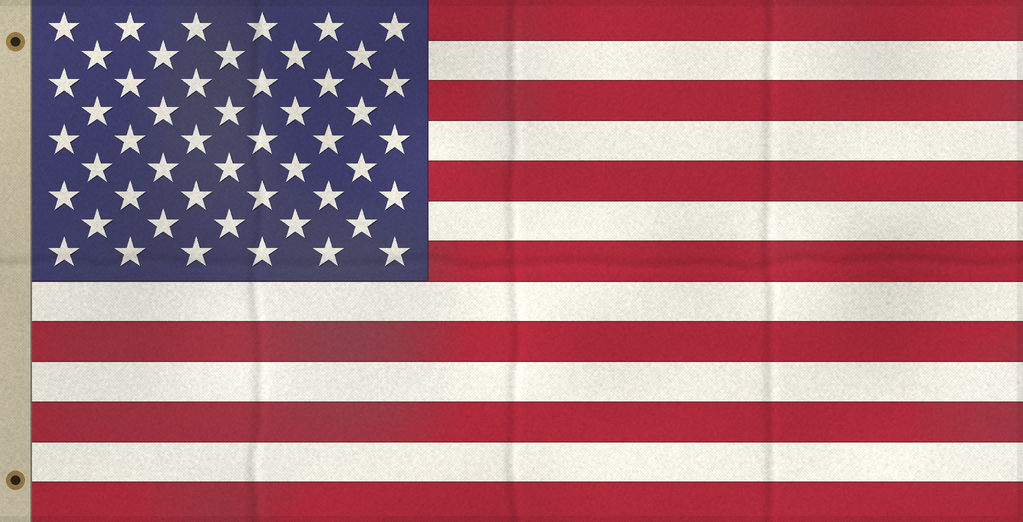
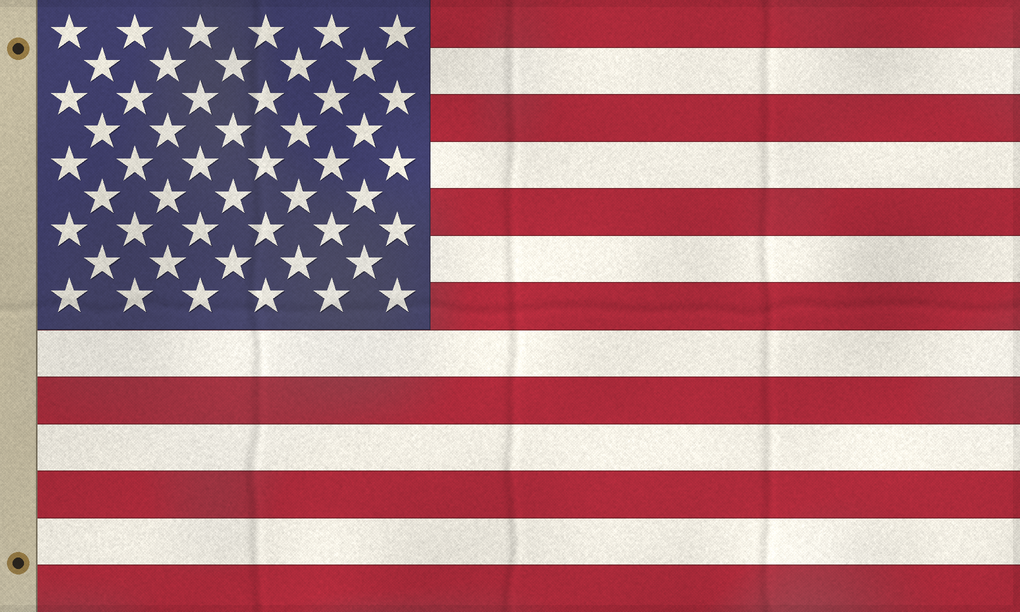
v67: lote 22 — bandeiras iguais, grama mais baixa e contagem de 10 s (D-136)
- Bandeiras dos EUA e da Frente no mesmo retângulo de 5:3 (mesa e fichas);
  imagens refeitas nessa proporção e reenviadas.
- Grama do terreno 1/3 mais baixa (GrassLength 1 -> 0,67).
- Contagem de 10 s (eram 30): veículo com gente dentro que passa de 60 m
  do QG volta para a borda, parado e de frente para o QG; quem é puxado
  vê "Não saia da base!". A contagem só aparece em campo (não tapa mais a
  mesa de escolha de lado).
- Fila nova registrada no PROGRESS (lotes 23 a 27).

diff --git a/vantuong65/tools/bandeiras_textura.py b/vantuong65/tools/bandeiras_textura.py
@@ -2,10 +2,10 @@
 quero a bandeira de cada país esticada sobre a mesa, bem detalhadas e texturizadas").
 
 Uso: `uv run --group arte python tools/bandeiras_textura.py`
-Saídas em `assets/bandeiras/`: `bandeira_eua.png` (1023 x 522: 1,9:1 mais a lona do mastro) e
-`bandeira_frente.png` (1024 x 683, 3:2), desenhadas a 2x e reduzidas (borda limpa). O Roblox
-reduz imagem a 1024 px de lado; por isso este tamanho. Também `testes/conferencia_bandeiras.png`,
-as duas lado a lado.
+Saídas em `assets/bandeiras/`: `bandeira_eua.png` e `bandeira_frente.png`, as duas com 1020 x 612
+(5:3, lote 22: o mesmo tamanho na mesa; a dos EUA com a lona do mastro dentro), desenhadas a 2x e
+reduzidas (borda limpa). O Roblox reduz imagem a 1024 px de lado; por isso este tamanho. Também
+`testes/conferencia_bandeiras.png`, as duas lado a lado.
 
 Geometria:
 - EUA (Executive Order 10834, 1959, a bandeira de 1965): altura 1, comprimento 1,9; 13 listras
@@ -37,6 +37,11 @@ RAIZ = Path(__file__).resolve().parents[1]
 SAIDA = RAIZ / "assets" / "bandeiras"
 CONF = RAIZ / "testes" / "conferencia_bandeiras.png"
 K = 2  # supersample
+# Lote 22 (dono: "deixa as bandeiras na escolha de lado do mesmo tamanho"): as duas no mesmo
+# retângulo de 5:3, a proporção comercial da bandeira dos EUA (3 x 5 pés). A dos EUA era 1,9:1
+# mais a lona; a da Frente, 3:2. Cada desenho é refeito na proporção nova (nada esticado).
+PROPORCAO = 5 / 3
+ALTURA = 612  # px na imagem final: 1.020 x 612 (o Roblox reduz acima de 1.024)
 rng = np.random.default_rng(1965818)
 
 US_RED = (178, 34, 52)
@@ -116,9 +121,9 @@ def costura(
 
 
 def bandeira_eua() -> Image.Image:
-    H = 522 * K  # com a lona, 1.023 px de largura (o Roblox reduz acima de 1.024)
-    W = int(round(H * 1.9))
-    lona = int(0.06 * H)  # tira de lona do mastro (fora da proporção da bandeira)
+    H = ALTURA * K
+    lona = int(0.06 * H)  # tira de lona do mastro, dentro dos 5:3
+    W = int(round(H * PROPORCAO)) - lona
     img = Image.new("RGB", (W + lona, H), US_WHITE)
     d = ImageDraw.Draw(img)
     x0 = lona
@@ -129,7 +134,8 @@ def bandeira_eua() -> Image.Image:
     # costura entre as listras
     for i in range(1, 13):
         costura(d, [(x0, i * faixa), (x0 + W, i * faixa)], (120, 30, 38), 1.2 * K)
-    ch, cw = 7 * faixa, 0.76 * H
+    # cantão: 0,76/1,9 = 2/5 do comprimento (a regra das bandeiras de 3 x 5 pés)
+    ch, cw = 7 * faixa, W * 0.76 / 1.9
     d.rectangle([x0, 0, x0 + cw, ch], fill=US_BLUE)
     costura(d, [(x0 + cw, 0), (x0 + cw, ch), (x0, ch)], (40, 38, 70), 1.2 * K)
     # 50 estrelas (bordadas: sombra fina embaixo à direita e o corpo claro)
@@ -158,8 +164,8 @@ def bandeira_eua() -> Image.Image:
 
 
 def bandeira_frente() -> Image.Image:
-    H = 683 * K
-    W = int(round(H * 1.5))
+    H = ALTURA * K
+    W = int(round(H * PROPORCAO))
     img = Image.new("RGB", (W, H), NLF_RED)
     d = ImageDraw.Draw(img)
     d.rectangle([0, H / 2, W, H], fill=NLF_BLUE)

diff --git a/vantuong65/PROGRESS.md b/vantuong65/PROGRESS.md
@@ -95,6 +95,21 @@ jogo: vale só a ideia (objetivos espalhados), nada da tela.
 - **Lote 21 (v66, D-135): feito.** Vegetação com até 6 mil triângulos por modelo (14 modelos
   reduzidos e reenviados; a D-66 pedia no mínimo 8 mil).
 - "jogo de poder roblox": engano (resposta do dono), nada a fazer.
+- Pedidos novos do dono (14/11, 15h57 a 16h41), em lotes:
+  - **Lote 22 (v67, D-136): feito.** Bandeiras do mesmo tamanho na escolha de lado; grama 1/3 mais
+    baixa; contagem de 10 s em que dá para pegar veículo, mas não sair da base.
+  - **Lote 23:** recompensa diária e passe mais atraentes para crianças, com letras maiores
+    (principalmente as das recompensas).
+  - **Lote 24:** símbolo de granada perto: vermelho = vai matar, branco = vai ferir.
+  - **Lote 25:** nome do jogo (STARLITE: Vietnã 1965, D-101) e imagens da página (capas em
+    `marketing/capas`). O dono vai dar o acesso.
+  - **Lote 26:** mapa novo pela imagem do dono:
+    - 5 objetivos: arrozais (SO), serraria (NO), vila (centro), ponte e cais (SE), engenho (NE);
+      rio; base dos EUA a oeste e do VC a leste;
+    - um objetivo fica na mata fechada;
+    - bases mais longe dos objetivos;
+    - mais relevo.
+  - **Lote 27:** correção de bugs de textura, gráficos, movimentação, tiros e granadas.
 
 - **Próximos (ideias da análise, esperando o dono):**
   - desempenho medido num celular e num servidor do Roblox (fps, Hz, teto de bots), aliviando a mata;
@@ -103,6 +118,29 @@ jogo: vale só a ideia (objetivos espalhados), nada da tela.
   - base do VC sob a mata; nomes do equipamento da Intendência sem tradução; Type 54 em 3ª pessoa;
   - a pá do autoteste na 1ª rodada de cada sessão;
   - as teclas agem por baixo da tela de carregamento (a pá cavou durante o carregamento, D-129).
+
+## v67: lote 22, bandeiras iguais, grama mais baixa e contagem de 10 s (2026-11-14, D-136)
+- **A publicar.**
+- **Feito:**
+  - bandeiras dos EUA e da Frente no mesmo retângulo de 5:3, na mesa e nas fichas; imagens
+    refeitas nessa proporção e reenviadas (as antigas como `Images.bandeira_*_v66`);
+  - grama do terreno 1/3 mais baixa (`GrassLength` 1 → 0,67, no bake);
+  - contagem do começo de 10 s (eram 30). O veículo com gente dentro que passa de 60 m do QG volta
+    para a borda, parado e de frente para o QG. Quem é puxado de volta vê "Não saia da base!" em
+    vermelho; o texto normal é "Pegue um veículo e espere na base";
+  - a contagem não aparece mais por cima da mesa de escolha de lado; só em campo.
+- **Conferido no Studio:**
+  - mesa com as duas bandeiras do mesmo tamanho e sem a contagem por cima;
+  - a pé, levado a 80 m: voltou para 58 m;
+  - no jipe, levado a 90 m: voltou para 54 m em 1,2 s, sentado, parado e de frente para o QG
+    (cosseno 0,98);
+  - o aviso em vermelho na tela;
+  - a contagem em campo de 9 a 1 e depois "VALENDO!";
+  - `GrassLength` 0,67 no place.
+- **Testes:** Lune todos ok (interface com o teste novo das bandeiras e o da contagem atualizado);
+  pytest; ruff; luau-lsp.
+- **Não testado:** um jogador de verdade dirigindo para fora da base (o teste moveu o jipe pelo
+  servidor); celular.
 
 ## v66: lote 21, vegetação com até 6 mil triângulos (2026-11-14, D-135)
 - **Publicada** (versão 66 do place, commit e9a3d6e).

diff --git a/vantuong65/DESIGN.md b/vantuong65/DESIGN.md
@@ -4949,3 +4949,50 @@ igual.
 direita.
 
 **Não testado:** celular e num servidor do Roblox.
+
+## D-136 — Lote 22: bandeiras iguais, grama mais baixa e contagem de 10 s (v67, 2026-11-14)
+
+Pedidos do dono:
+- "deixa as bandeiras na escolha de lado do mesmo tamanho";
+- "diminua 1/3 da altura da grama";
+- "faça de 10 seg a contagem regressiva onde os jogadores podem pegar os veículos etc, porém não
+  podem sair da base".
+
+**Bandeiras:**
+- Antes, a dos EUA era 1,96:1 (1,9:1 mais a lona do mastro) e a da Frente 3:2, e a dos EUA ficava
+  bem mais larga na mesa.
+- Agora as duas usam o mesmo retângulo de 5:3, a proporção comercial da bandeira dos EUA (3 x 5 pés),
+  com a lona do mastro dentro. Nada foi esticado:
+  - `tools/bandeiras_textura.py` desenha as duas já em 1.020 x 612 px;
+  - cantão em 2/5 do comprimento;
+  - a estrela da Frente com o mesmo raio.
+- `Bandeiras.RATIO` = 5:3 para as duas. A mesa (`LobbyScene.flagOnTable`) e as fichas de alistamento
+  usam a proporção comum.
+- Imagens reenviadas; as antigas ficaram como `Images.bandeira_*_v66`.
+
+**Grama:** `Terrain.GrassLength` de 1 para 0,67 no bake (`tools/bake_place.luau`, `GRASS_LENGTH`). Só
+o plugin ou o arquivo do place escreve essa propriedade.
+
+**Contagem** (`MatchService.PREP_S` 30 → 10; `PreparoService`):
+- Pegar veículo já era livre na contagem. O que faltava era prender o veículo: quem estava sentado
+  saía da base dirigindo.
+- Agora, a cada 0,5 s, o veículo com gente dentro que passou de 60 m do QG volta 6 m para dentro do
+  raio. Ele volta na mesma altura sobre o chão (o helicóptero no ar), de frente para o QG, parado e
+  com quem está sentado.
+- Quem é puxado de volta (a pé ou no veículo) ganha +1 no atributo `PrepVolta` do Player. A contagem
+  mostra "Não saia da base!" em vermelho por 2,5 s; o texto normal é "Pegue um veículo e espere na
+  base" (traduções em en, es e vi).
+- **Contagem fora da mesa:** a contagem aparecia por cima da mesa de escolha de lado e tapava as
+  bandeiras; ali o número ficava parado em 10, porque a partida espera cheia até alguém nascer. Agora
+  só aparece em campo: personagem vivo, papel escolhido e o `VT65LobbyBackdrop` desligado.
+
+**Conferido no Studio:**
+- a pé, levado a 80 m: voltou para 58 m;
+- no jipe M151, levado a 90 m: voltou para 54 m em 1,2 s, sentado, parado e de frente para o QG
+  (cosseno 0,98);
+- nascendo no QG ninguém é puxado (o ponto de nascer fica dentro dos 60 m);
+- em campo, a contagem vai de 9 a 1 e mostra "VALENDO!";
+- fotos em `testes/lote22/`.
+
+**Não testado:** um jogador de verdade dirigindo para fora (o teste moveu o jipe pelo servidor);
+celular.

diff --git a/vantuong65/CLAUDE.md b/vantuong65/CLAUDE.md
@@ -153,7 +153,7 @@ O `sourcemap.json` não vai para o Git.
 - Segredos só no `.env` (no `.gitignore`), nunca no código nem no chat.
 - ForgeGUI: nunca regenerar um job em `outcome_unknown`. "failed" com `retryable` pode ser
   retomado com `generation_retry`.
-- Mudou regra ou número de design? Registre em `DESIGN.md` (próximo: D-136) e atualize `PROGRESS.md`.
+- Mudou regra ou número de design? Registre em `DESIGN.md` (próximo: D-137) e atualize `PROGRESS.md`.
 - Tetos de triângulos por modelo: vegetação ≤ 6 mil (D-135), props e herói ≤ 20 mil (`ArtBudget`,
   conferido pelo teste da F5).
 - Commits no branch acima, com mensagem em português.
